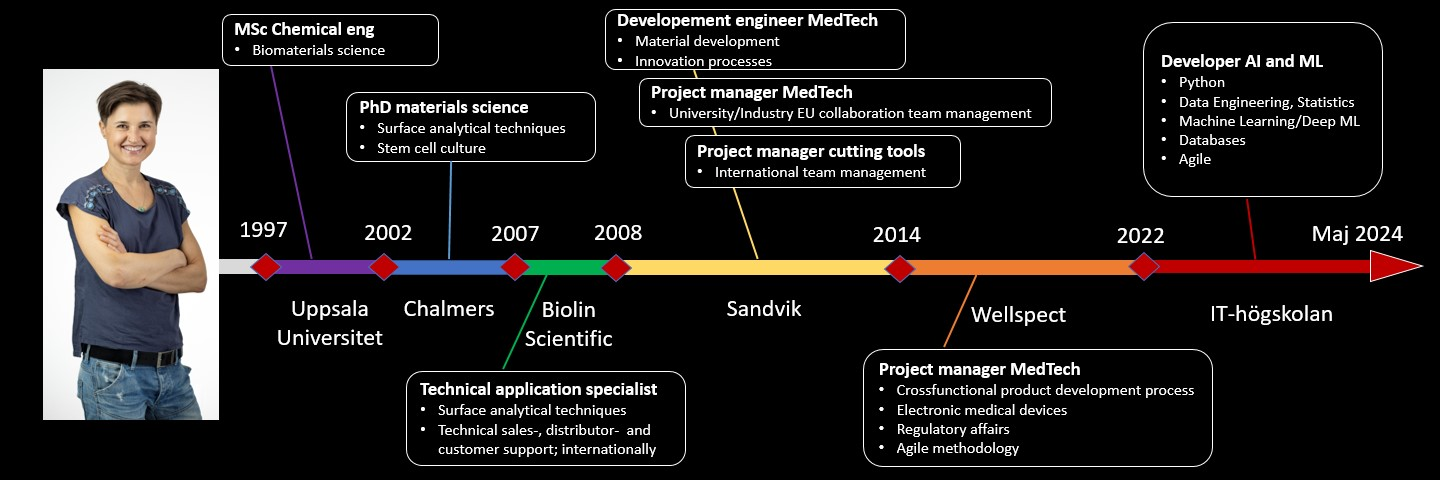
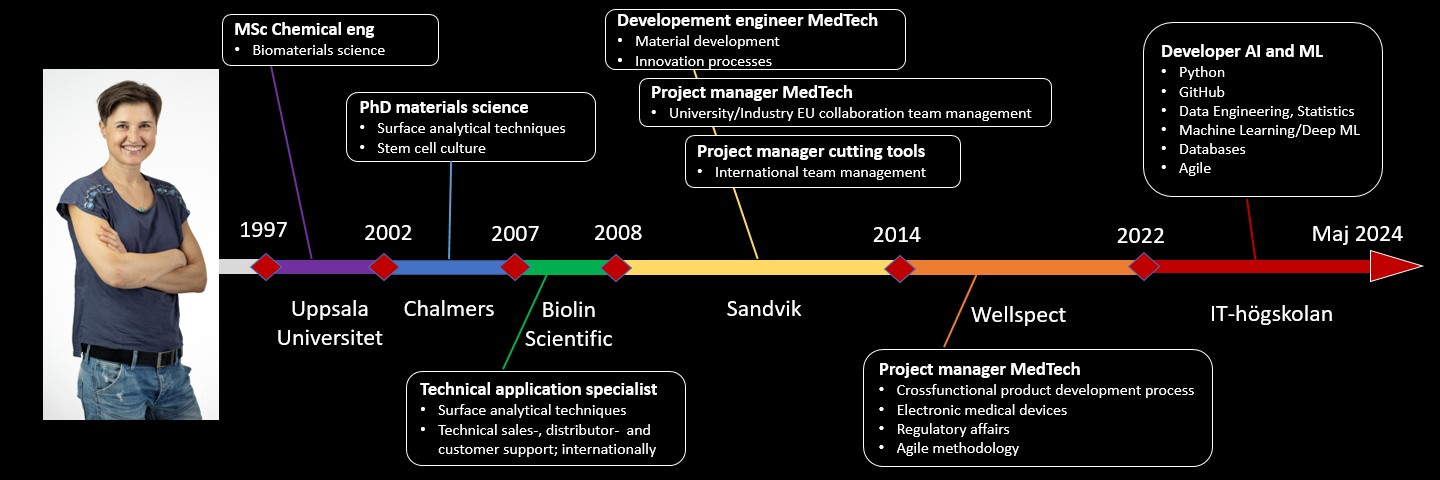
cv_timeline image updated with github

Changed region(s): [[0.7812, 0.0938, 0.9375, 0.375]]

diff --git a/README.md b/README.md
@@ -40,9 +40,10 @@ I am an expereinced Project Manager mainly from product development within medic
 
 ---
 ---
+<br/>
 
 ## Contact me :iphone:
 
- ![linkedIn icon](assets/linkedin_icon.png)[LinkedIn]
+[LinkedIn]
 
 [LinkedIn]: https://www.linkedin.com/in/dorota-bj%C3%B6%C3%B6rn-95454a50/
